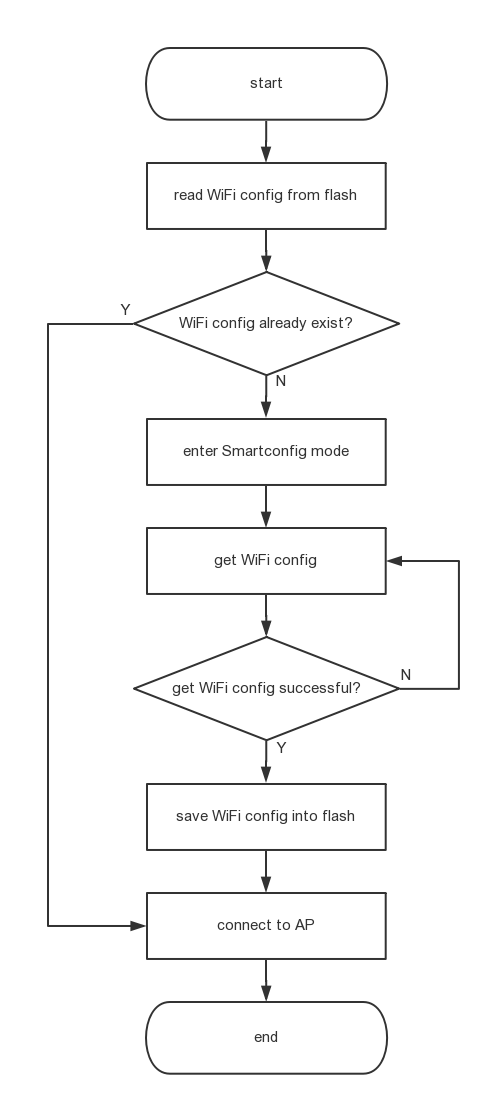
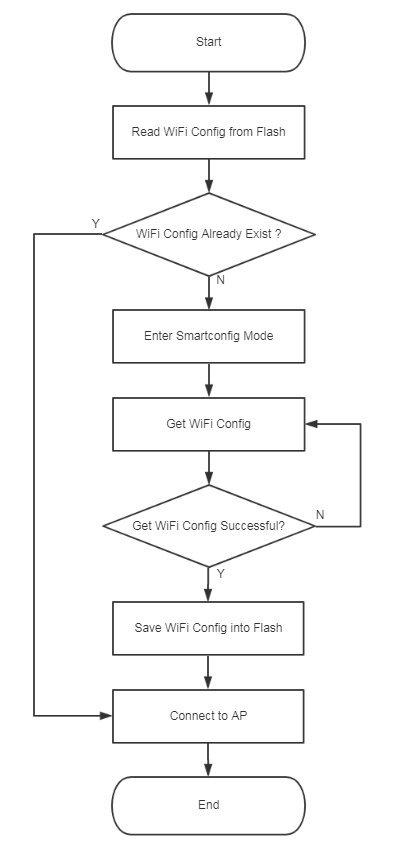
doc(lowpower): fix_errors_in_flow_chart

Changed region(s): [[0.0605, 0.0, 0.937, 1.0], [0.7254, 0.0, 0.7557, 0.0305]]

diff --git a/examples/lowpower_evb/readme_en.md b/examples/lowpower_evb/readme_en.md
@@ -125,7 +125,9 @@ The software framework for Espressif Low Power Solution mainly consists of:
 
 Please see the flow chart below:
 
-<img src="../../documents/_static/lowpower_evb/workflow_of_framwork.png" width = "800"> 
+<img src="../../documents/_static/lowpower_evb/workflow_of_framwork.png">
+
+> The "ULP Running", which can be seen in the figure above in the dotted box, only occurs when the ULP Wake-up is enabled as the wake-up source. For details, please see Section 3.3.
 
 ### 3.2 Documents and Interface
 
@@ -232,6 +234,10 @@ To provide a reference design for E-ink, the last set of the uploaded data will 
 #### 3.3.6 Sleep and Wake Up
 
 Sleep and Wake-up are usually the last programs to be performed as CPU will stop running when device enters deep sleep. At this point, the device waits to be woken up to start all over again, which is quite similar to the reboot mechanism. Now you need to set the Wake-up types (namely, Timer Wake-up, GPIO Wake-up and ULP Wake-up) before the device enters deep sleep, awaiting wake-up signals.
+
+When the chip is in Deep-sleep mode, the ULP can be configured to go into sleep right after it has completed its routine. Then it waits to be waken up by a timer. The demo below shows the process of ULP running and waking up:
+
+<img src="../../documents/_static/lowpower_evb/ulp_sleep.png">
 
 ## 4. Power Measurement of the Low Power Development Board
 
